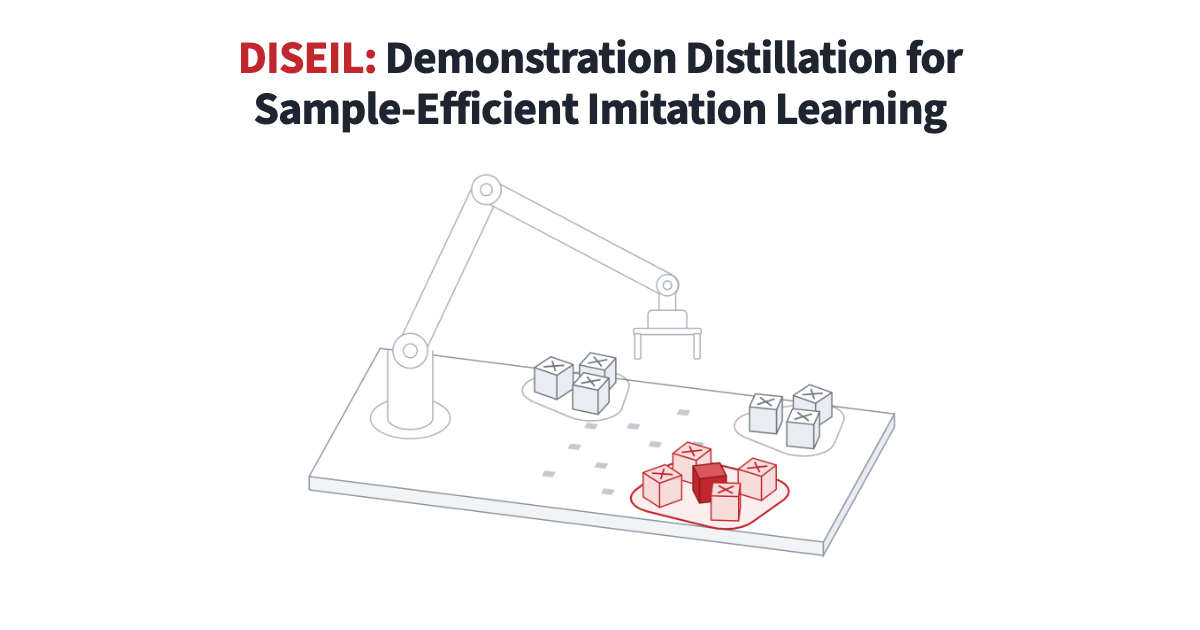
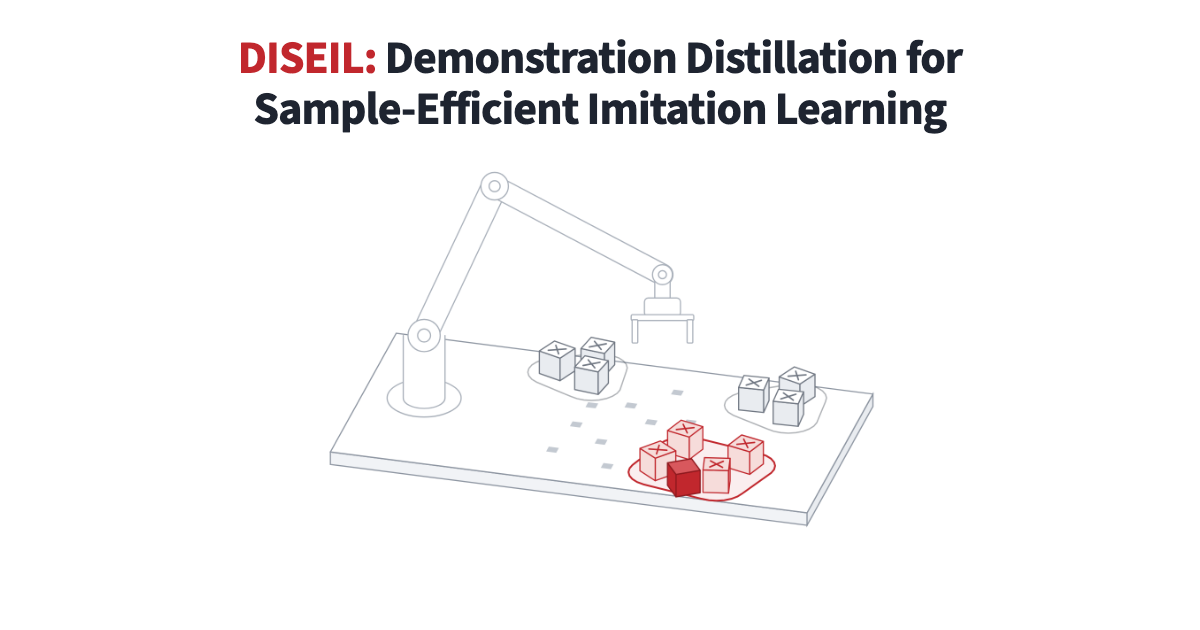
Add interactive results chart and update header, thumbnail and animation

Changed region(s): [[0.2467, 0.2714, 0.7708, 0.8746], [0.37, 0.6032, 0.4008, 0.6333]]

diff --git a/js/chart.js b/js/chart.js
@@ -1,0 +1,170 @@
+/* Final policy success (Table 1 of the paper): one mark per method, hover for values, zoom, highlight a method. */
+(function () {
+  'use strict';
+  const root = document.getElementById('chart'), d = JSON.parse(document.getElementById('table1').textContent);
+  const STYLE = { // colours pass an all-pairs colour-blind check; shape repeats the identity
+    DISEIL: ['#c1272d', 'diamond'], SafeDAgger: ['#876df9', 'circle'], DropoutDAgger: ['#1442be', 'square'], EnsembleDAgger: ['#3fc347', 'up'],
+    ThriftyDAgger: ['#7d2386', 'down'], 'Diff-DAgger': ['#6bbaf0', 'star'], Stagger: ['#e166ab', 'plus'],
+  };
+  const LEGEND = ['DISEIL', 'SafeDAgger', 'DropoutDAgger', 'EnsembleDAgger', 'ThriftyDAgger', 'Diff-DAgger', 'Stagger'];
+  const FULL = [66, 101], MIN = 1.5, NS = 'http://www.w3.org/2000/svg', fmt = (v) => v.toFixed(1);
+  const reduce = matchMedia('(prefers-reduced-motion: reduce)').matches;
+  const el = (n, a, p, t) => { const e = document.createElementNS(NS, n); for (const k in a) e.setAttribute(k, a[k]); if (p) p.appendChild(e); if (t !== undefined) e.textContent = t; return e; };
+  const shape = (kind, r) => {
+    const pts = (n, f) => Array.from({ length: n }, (_, i) => f(i)).map(([x, y]) => `${x.toFixed(2)} ${y.toFixed(2)}`).join('L');
+    const pol = (n, rr, a0) => `M${pts(n, (i) => { const a = a0 + i * 2 * Math.PI / n, q = typeof rr === 'function' ? rr(i) : rr; return [q * Math.cos(a), q * Math.sin(a)]; })}Z`;
+    if (kind === 'circle') return `M${-r} 0A${r} ${r} 0 1 1 ${r} 0A${r} ${r} 0 1 1 ${-r} 0Z`;
+    if (kind === 'square') { const s = r * 0.9; return `M${-s} ${-s}H${s}V${s}H${-s}Z`; }
+    if (kind === 'up') return pol(3, r * 1.25, -Math.PI / 2); if (kind === 'down') return pol(3, r * 1.25, Math.PI / 2);
+    if (kind === 'star') return pol(10, (i) => (i % 2 ? r * 0.56 : r * 1.32), -Math.PI / 2);
+    if (kind === 'plus') { const a = r * 1.12, b = r * 0.42; return `M${-b} ${-a}H${b}V${-b}H${a}V${b}H${b}V${a}H${-b}V${b}H${-a}V${-b}H${-b}Z`; }
+    return pol(4, r * 1.5, -Math.PI / 2);
+  };
+  const dark = (h) => '#' + [1, 3, 5].map((i) => Math.round(parseInt(h.slice(i, i + 2), 16) * 0.72).toString(16).padStart(2, '0')).join('');
+  const data = d.rows.map((r) => ({ task: r.task, obs: r.obs, pts: d.methods.map((m, j) => r.vals[j] && { m, v: r.vals[j][0], s: r.vals[j][1] }).filter(Boolean) }));
+
+  let dom = FULL.slice(), goal = FULL.slice(), pinned = null, hover = null, hotM = null, geo = null, anim = 0;
+
+  /* legend and buttons */
+  const legend = root.querySelector('.legend'), host = root.querySelector('.plot'), tip = root.querySelector('.tip'), live = root.querySelector('[aria-live]');
+  LEGEND.forEach((m) => {
+    const b = document.createElement('button'); b.type = 'button'; b.setAttribute('aria-pressed', 'false'); b.dataset.m = m;
+    b.innerHTML = `<svg width="20" height="20" viewBox="-10 -10 20 20" aria-hidden="true"><path d="${shape(STYLE[m][1], m === 'DISEIL' ? 6 : 6.2)}" fill="${STYLE[m][0]}" stroke="${dark(STYLE[m][0])}" stroke-width="1"/></svg>${m}`;
+    b.addEventListener('click', () => { pinned = pinned === m ? null : m; paint(); });
+    b.addEventListener('pointerenter', (e) => { if (e.pointerType === 'mouse') { hotM = m; paint(); } });
+    b.addEventListener('pointerleave', () => { hotM = null; paint(); });
+    legend.appendChild(b);
+  });
+  const zoomTo = (a, b) => {
+    let span = Math.max(MIN, Math.min(FULL[1] - FULL[0], b - a)), c = (a + b) / 2; a = Math.max(FULL[0], Math.min(FULL[1] - span, c - span / 2)); b = a + span; goal = [a, b];
+    const from = dom.slice(), t0 = performance.now(); cancelAnimationFrame(anim); tip.hidden = true; hover = null;
+    if (reduce) { dom = [a, b]; paint(); return; }
+    const tick = (now) => { const k = Math.min(1, (now - t0) / 260), e = k * k * (3 - 2 * k); dom = [from[0] + (a - from[0]) * e, from[1] + (b - from[1]) * e]; paint(); if (k < 1) anim = requestAnimationFrame(tick); };
+    anim = requestAnimationFrame(tick);
+  };
+  const setDom = (a, b) => { const span = Math.max(MIN, Math.min(FULL[1] - FULL[0], b - a)); a = Math.max(FULL[0], Math.min(FULL[1] - span, a)); cancelAnimationFrame(anim); dom = [a, a + span]; goal = dom.slice(); tip.hidden = true; hover = null; paint(); };
+  const by = (f, at) => { const c = at === undefined ? (dom[0] + dom[1]) / 2 : at; return [c - (c - dom[0]) * f, c + (dom[1] - c) * f]; };
+  const step = (f) => { const c = (goal[0] + goal[1]) / 2, h = (goal[1] - goal[0]) / 2 * f; return [c - h, c + h]; };
+  root.querySelector('[data-z="in"]').addEventListener('click', () => zoomTo(...step(0.5)));
+  root.querySelector('[data-z="out"]').addEventListener('click', () => zoomTo(...step(2)));
+  root.querySelector('[data-z="reset"]').addEventListener('click', () => { pinned = null; zoomTo(...FULL); });
+
+  /* drawing */
+  function layout(W) {
+    const n = W < 640, left = n ? 58 : 168, right = n ? 62 : 132, pitch = n ? 78 : W < 800 ? 76 : 56, gap = n ? 34 : 12, top = n ? 44 : 34;
+    const y = data.map((_, i) => top + (n ? Math.floor(i / 2) + 1 : Math.floor(i / 2)) * gap - (n ? 10 : 0) + i * pitch + pitch / 2);
+    return { W, n, left, right, pitch, gap, top, y, r: n ? 4.5 : 5.4, H: y[9] + pitch / 2 + 62, x0: left, x1: W - right };
+  }
+  function place(g, X) { // keep marks that would overlap apart, vertically, around their row
+    const gapPx = g.r * 2 + 1.2, out = [];
+    data.forEach((row, i) => {
+      const items = row.pts.map((p) => ({ ...p, i, x: X(p.v), y: 0 })).sort((a, b) => (b.m === 'DISEIL') - (a.m === 'DISEIL') || b.v - a.v), done = [];
+      items.forEach((p) => {
+        const need = (q) => (p.m === 'DISEIL' || q.m === 'DISEIL' ? gapPx + 2 : gapPx);
+        const ok = (y) => done.every((q) => Math.hypot(q.x - p.x, q.y - y) >= need(q) - 0.01);
+        for (let k = 0; k < 64; k++) { const y = (k % 2 ? 1 : -1) * Math.ceil(k / 2) * (gapPx / 4); if (ok(y)) { p.y = y; break; } }
+        done.push(p);
+      });
+      const lo = Math.min(...done.map((p) => p.y)), hi = Math.max(...done.map((p) => p.y)), lim = g.pitch / 2 - g.r;
+      if (hi > lim || lo < -lim) { const mid = (lo + hi) / 2; done.forEach((p) => { p.y -= mid; }); }
+      out.push(...done.map((p) => ({ ...p, cy: g.y[i] + p.y })));
+    });
+    return out;
+  }
+  function ticks(a, b) { const span = b - a, st = [0.1, 0.2, 0.5, 1, 2, 5, 10].find((s) => span / s <= 7) || 10, o = []; for (let v = Math.ceil(a / st - 1e-6) * st; v <= Math.min(b, 100) + 1e-6; v += st) o.push(+v.toFixed(2)); return { o, dec: st < 1 ? 1 : 0 }; }
+  function paint() {
+    const W = Math.max(240, host.clientWidth), g = layout(W), X = (v) => g.x0 + ((v - dom[0]) / (dom[1] - dom[0])) * (g.x1 - g.x0);
+    const focusM = hotM || (hover && hover.m) || pinned, col = hotM || pinned || 'DISEIL', zoomed = dom[1] - dom[0] < FULL[1] - FULL[0] - 0.01;
+    const had = host.contains(document.activeElement);
+    host.innerHTML = '';
+    const svg = el('svg', { viewBox: `0 0 ${W} ${g.H}`, width: W, height: g.H, role: 'img', tabindex: 0, 'aria-label': 'Held-out success after 20 demonstrations for DISEIL and six baselines on ten settings. Arrow keys step through the values.' }, host);
+    svg.classList.toggle('zoomed', zoomed);
+    const defs = el('defs', {}, svg), cp = el('clipPath', { id: 'plotclip' }, defs); el('rect', { x: g.x0 - 9, y: 0, width: g.x1 - g.x0 + 18, height: g.H }, cp);
+    const base = g.y[9] + g.pitch / 2 + 6, f1 = g.n ? 14 : 16, f2 = g.n ? 15 : 18;
+    const tk = ticks(...dom);
+    tk.o.forEach((v) => { el('line', { x1: X(v), x2: X(v), y1: g.top - 6, y2: base, stroke: '#e6e9ed' }, svg); el('line', { x1: X(v), x2: X(v), y1: base, y2: base + 6, stroke: '#5e6773' }, svg); el('text', { x: X(v), y: base + 24, 'text-anchor': 'middle', 'font-size': f1, class: 'num' }, svg, v.toFixed(tk.dec)); });
+    el('line', { x1: g.x0 - 8, x2: g.x1 + 8, y1: base, y2: base, stroke: '#5e6773', 'stroke-width': 1.3 }, svg);
+    el('text', g.n ? { x: W, y: base + 48, 'text-anchor': 'end', 'font-size': 14 } : { x: (g.x0 + g.x1) / 2, y: base + 50, 'text-anchor': 'middle', 'font-size': 16 }, svg, 'Held-out success after 20 demonstrations (%)');
+    el('text', { x: g.n ? W : W - 48, y: g.n ? 18 : 18, 'text-anchor': 'end', 'font-size': g.n ? 13 : 15, class: 'colhead' }, svg, col);
+    const marks = place(g, X), inn = el('g', { 'clip-path': 'url(#plotclip)' }, svg);
+    data.forEach((r, i) => {
+      if (i % 2 === 0) el('text', g.n ? { x: 0, y: g.y[i] - g.pitch / 2 - 6, 'font-size': f1 + 1, class: 'task' } : { x: 0, y: (g.y[i] + g.y[i + 1]) / 2 + 6, 'font-size': f2, class: 'task' }, svg, r.task);
+      el('text', { x: g.x0 - (g.n ? 16 : 22), y: g.y[i] + 5, 'text-anchor': 'end', 'font-size': f1 }, svg, r.obs);
+      const D = r.pts.find((p) => p.m === 'DISEIL'), lo = Math.min(...r.pts.map((p) => p.v));
+      const yd = marks.find((p) => p.i === i && p.m === 'DISEIL').cy;
+      el('line', { x1: X(lo), x2: X(D.v), y1: yd, y2: yd, stroke: '#eceff2', 'stroke-width': 6, 'stroke-linecap': 'round' }, inn);
+      const c = r.pts.find((p) => p.m === col), t = el('text', { x: W - (g.n ? 0 : 0), y: g.y[i] + 6, 'text-anchor': 'end', class: 'num' }, svg);
+      if (c) { el('tspan', { class: 'val' + (col === 'DISEIL' ? ' red' : ''), 'font-size': g.n ? 14.5 : 18 }, t, fmt(c.v)); if (!g.n) el('tspan', { class: col === 'DISEIL' ? 'red' : '', 'font-size': 14, dx: 5 }, t, `± ${fmt(c.s)}`); } else t.textContent = '–';
+    });
+    const bar = (p, w) => { if (p.s > 0.04) el('path', { d: `M${X(p.v - p.s)} ${p.cy}H${X(p.v + p.s)}M${X(p.v - p.s)} ${p.cy - 4}v8M${X(p.v + p.s)} ${p.cy - 4}v8`, stroke: STYLE[p.m][0], 'stroke-width': w, fill: 'none' }, inn); };
+    marks.forEach((p) => { if (p.m === focusM || (p.m === 'DISEIL' && !focusM)) bar(p, 1.8); });
+    const draw = (p) => {
+      const on = !focusM || p.m === focusM, hot = hover && hover.m === p.m && hover.i === p.i, k = p.m === 'DISEIL' ? g.r * 1.06 : g.r;
+      el('path', { d: shape(STYLE[p.m][1], hot ? k * 1.35 : k), transform: `translate(${p.x.toFixed(2)} ${p.cy.toFixed(2)})`, fill: STYLE[p.m][0], stroke: hot ? '#1e2430' : dark(STYLE[p.m][0]), 'stroke-width': hot ? 1.8 : 0.9, opacity: on ? 1 : 0.22 }, inn);
+    };
+    marks.filter((p) => p.m !== 'DISEIL').forEach(draw); marks.filter((p) => p.m === 'DISEIL').forEach(draw); if (hover) marks.filter((p) => p.m === hover.m && p.i === hover.i).forEach(draw);
+    if (brush) el('rect', { x: Math.min(brush[0], brush[1]), y: g.top - 6, width: Math.abs(brush[1] - brush[0]), height: base - g.top + 6, fill: '#1e2430', opacity: 0.08 }, svg);
+    root.querySelectorAll('.legend button').forEach((b) => { b.setAttribute('aria-pressed', String(pinned === b.dataset.m)); b.classList.toggle('off', !!focusM && focusM !== b.dataset.m); });
+    root.querySelector('[data-z="out"]').disabled = !zoomed; root.querySelector('[data-z="reset"]').disabled = !zoomed && !pinned; root.querySelector('[data-z="in"]').disabled = dom[1] - dom[0] <= MIN + 0.01;
+    if (had) svg.focus({ preventScroll: true });
+    geo = { g, X, marks, inv: (px) => dom[0] + ((px - g.x0) / (g.x1 - g.x0)) * (dom[1] - dom[0]) };
+  }
+  function show(p) {
+    if (p && (p.v < dom[0] || p.v > dom[1])) { const s = dom[1] - dom[0]; setDom(p.v - s / 2, p.v + s / 2); }
+    hover = p ? { m: p.m, i: p.i } : null; paint();
+    if (!p) { tip.hidden = true; return; }
+    const q = geo.marks.find((z) => z.m === p.m && z.i === p.i), r = data[p.i];
+    tip.innerHTML = `<b><svg width="16" height="16" viewBox="-9 -9 18 18" aria-hidden="true"><path d="${shape(STYLE[p.m][1], 5.6)}" fill="${STYLE[p.m][0]}" stroke="${dark(STYLE[p.m][0])}"/></svg>${p.m}</b><span class="big">${fmt(p.v)}% <small>± ${fmt(p.s)}</small></span><span>${r.task}, ${r.obs}</span>`;
+    tip.hidden = false; live.textContent = `${p.m}, ${r.task} ${r.obs}: ${fmt(p.v)} percent, standard error ${fmt(p.s)}`;
+    const w = tip.offsetWidth, h = tip.offsetHeight, W = host.clientWidth, ox = host.offsetLeft, oy = host.offsetTop;
+    tip.style.left = Math.max(0, Math.min(W - w, q.x + 16 + w > W ? q.x - w - 14 : q.x + 16)) + ox + 'px'; tip.style.top = (q.cy - h - 12 < 0 ? q.cy + 16 : q.cy - h - 10) + oy + 'px';
+  }
+
+  /* pointer: hover for values, drag to zoom, pinch or two fingers on touch */
+  let brush = null, down = null, lastTouch = false; const touch = new Map();
+  const at = (e) => { const b = host.getBoundingClientRect(); return [e.clientX - b.left, e.clientY - b.top]; };
+  const nearest = (x, y, lim) => { let best = null, bd = lim; geo.marks.forEach((p) => { if (p.x < geo.g.x0 - 9 || p.x > geo.g.x1 + 9) return; const k = Math.hypot(p.x - x, p.cy - y); if (k < bd) { bd = k; best = p; } }); return best; };
+  host.addEventListener('pointerdown', (e) => {
+    const [x, y] = at(e); lastTouch = e.pointerType !== 'mouse';
+    if (e.pointerType === 'mouse') { if (e.button === 0 && x > geo.g.x0 - 12 && x < geo.g.x1 + 12) { down = [x, y]; host.setPointerCapture(e.pointerId); } return; }
+    touch.set(e.pointerId, [x, y]); down = [x, y, dom.slice()];
+    if (touch.size === 1) show(nearest(x, y, 26));
+  });
+  host.addEventListener('pointermove', (e) => {
+    const [x, y] = at(e);
+    if (e.pointerType !== 'mouse') {
+      if (!touch.has(e.pointerId)) return;
+      const prev = new Map(touch); touch.set(e.pointerId, [x, y]);
+      if (touch.size === 2) { const a = [...prev.values()], b = [...touch.values()], d0 = Math.abs(a[0][0] - a[1][0]) || 1, d1 = Math.abs(b[0][0] - b[1][0]) || 1; setDom(...by(Math.max(0.5, Math.min(2, d0 / d1)), geo.inv((b[0][0] + b[1][0]) / 2))); } else if (down && down[2] && Math.abs(x - down[0]) > 8) { const k = (down[0] - x) / (geo.g.x1 - geo.g.x0) * (down[2][1] - down[2][0]); if (dom[1] - dom[0] < FULL[1] - FULL[0] - 0.01) setDom(down[2][0] + k, down[2][1] + k); }
+      return;
+    }
+    if (down && Math.abs(x - down[0]) > 5) { hover = null; tip.hidden = true; const c = (v) => Math.max(geo.g.x0, Math.min(geo.g.x1, v)); brush = [c(down[0]), c(x)]; paint(); return; }
+    const p = nearest(x, y, 18); if ((p && p.m) !== (hover && hover.m) || (p && p.i) !== (hover && hover.i)) show(p);
+  });
+  const up = (e) => {
+    touch.delete(e.pointerId);
+    if (brush) { const a = geo.inv(Math.min(...brush)), b = geo.inv(Math.max(...brush)); brush = null; if (b - a > 0.2) zoomTo(a, b); else paint(); }
+    down = null;
+  };
+  host.addEventListener('pointerup', up); host.addEventListener('pointercancel', up);
+  host.addEventListener('pointerleave', (e) => { if (e.pointerType === 'mouse' && !down) show(null); });
+  document.addEventListener('pointerdown', (e) => { if (hover && !e.composedPath().includes(host)) show(null); });
+  host.addEventListener('dblclick', (e) => { if (!lastTouch) zoomTo(...FULL); });
+  host.addEventListener('wheel', (e) => {
+    const [x] = at(e), span = dom[1] - dom[0];
+    if (e.ctrlKey || e.metaKey) { e.preventDefault(); setDom(...by(Math.exp(e.deltaY * 0.01), geo.inv(x))); } else if (Math.abs(e.deltaX) > Math.abs(e.deltaY) && span < FULL[1] - FULL[0] - 0.01) { e.preventDefault(); const k = e.deltaX / (geo.g.x1 - geo.g.x0) * span; setDom(dom[0] + k, dom[1] + k); }
+  }, { passive: false });
+  host.addEventListener('keydown', (e) => {
+    if (e.key === 'Escape') { show(null); return; }
+    if (!['ArrowLeft', 'ArrowRight', 'ArrowUp', 'ArrowDown'].includes(e.key)) return;
+    e.preventDefault();
+    const rows = data.map((r, i) => r.pts.map((p) => ({ ...p, i })).sort((a, b) => a.v - b.v)); let i = hover ? hover.i : 0, j = hover ? rows[i].findIndex((p) => p.m === hover.m) : rows[0].length - 1;
+    if (hover) { if (e.key === 'ArrowLeft') j = Math.max(0, j - 1); if (e.key === 'ArrowRight') j = Math.min(rows[i].length - 1, j + 1); if (e.key === 'ArrowUp' || e.key === 'ArrowDown') { const m = hover.m; i = Math.max(0, Math.min(9, i + (e.key === 'ArrowUp' ? -1 : 1))); j = rows[i].findIndex((p) => p.m === m); if (j < 0) j = rows[i].length - 1; } }
+    show(rows[i][j]); host.querySelector('svg').focus({ preventScroll: true });
+  });
+
+  root.querySelector('table').innerHTML = '<thead><tr><th>Setting</th>' + LEGEND.map((m) => `<th>${m}</th>`).join('') + '</tr></thead><tbody>' + data.map((r) => `<tr><th>${r.task} ${r.obs}</th>` + LEGEND.map((m) => { const p = r.pts.find((z) => z.m === m); return `<td>${p ? fmt(p.v) + ' ± ' + fmt(p.s) : ''}</td>`; }).join('') + '</tr>').join('') + '</tbody>';
+  paint(); let w = host.clientWidth; new ResizeObserver(() => { if (Math.abs(host.clientWidth - w) > 2) { w = host.clientWidth; tip.hidden = true; hover = null; paint(); } }).observe(host);
+  if (document.fonts) document.fonts.ready.then(paint);
+  window.CHART = { zoomTo, show: (m, i) => show({ ...data[i].pts.find((p) => p.m === m), i }), get domain() { return dom; } };
+})();

diff --git a/css/style.css b/css/style.css
@@ -17,13 +17,14 @@ a { color: var(--ink); }
 header { padding-top: clamp(36px, 5.5vw, 72px); }
 .authors { margin-top: 22px; font-size: 1.25rem; color: var(--ink); } .authors span { margin-inline: 10px; white-space: nowrap; }
 .affil { color: var(--muted); margin-top: 2px; }
-.links { margin-top: 22px; display: flex; flex-wrap: wrap; justify-content: center; gap: 10px; }
+.accepted { margin-top: 10px; color: var(--body); } .accepted strong { color: var(--ink); font-weight: 600; }
+.links { margin-top: 20px; display: flex; flex-wrap: wrap; justify-content: center; gap: 10px; }
 .links a { background: var(--ink); color: #fff; text-decoration: none; padding: 7px 22px; border-radius: 99px; font-weight: 600; font-size: 1.05rem; }
 .links a:hover { background: var(--red); }
 :focus-visible { outline: 2.5px solid var(--red); outline-offset: 3px; }
 
 .teaser { margin-top: clamp(16px, 2.5vw, 30px); }
-#teaser { width: 100%; height: clamp(230px, min(50vw, 100vh - 420px), 540px); }
+#teaser { width: 100%; height: clamp(230px, min(50vw, 100vh - 455px), 540px); }
 .teaser figcaption { display: grid; justify-items: center; gap: 4px; margin-top: 4px; }
 #teaser-caption { font-size: clamp(1.15rem, 1rem + 0.8vw, 1.5rem); color: var(--ink); min-height: 1.55em; text-wrap: balance; }
 button { font: inherit; font-size: 0.92rem; color: var(--muted); background: none; border: 0; padding: 4px 8px; cursor: pointer; } button:hover { color: var(--red); }
@@ -36,8 +37,21 @@ section { margin-top: clamp(60px, 8vw, 104px); scroll-margin-top: 24px; }
 .task video { background: var(--wash); aspect-ratio: 832 / 466; }
 .task figcaption { color: var(--muted); font-size: 1rem; margin-top: 5px; }
 .note { color: var(--muted); font-size: 1rem; margin-top: 18px; text-wrap: balance; }
-.plot { margin-top: 20px; overflow-x: auto; }
-.claim { margin-top: clamp(40px, 5vw, 60px); font-size: 1.3rem; color: var(--ink); font-weight: 600; text-wrap: balance; }
+.chart { position: relative; margin-top: clamp(48px, 6vw, 76px); text-align: left; }
+.chart-head { display: flex; justify-content: space-between; align-items: baseline; gap: 10px 24px; flex-wrap: wrap; }
+.chart-head h3 { font-size: clamp(1.35rem, 1.2rem + 0.7vw, 1.7rem); font-weight: 700; }
+.zoom { display: flex; align-items: center; gap: 6px; color: var(--muted); font-size: 0.95rem; } .zoom span { margin-right: 8px; }
+.zoom button { border: 1px solid var(--line); min-width: 36px; height: 34px; padding: 0 10px; border-radius: 6px; color: var(--ink); font-size: 1rem; background: #fff; } .zoom button:hover:not(:disabled) { border-color: var(--red); color: var(--red); } .zoom button:disabled { color: #b3bac3; cursor: default; }
+.legend { display: flex; flex-wrap: wrap; gap: 2px 8px; margin: 12px 0 8px -8px; }
+.legend button { display: inline-flex; align-items: center; gap: 5px; color: var(--body); font-size: 1.02rem; padding: 3px 8px; border-radius: 6px; } .legend button:hover { color: var(--ink); background: var(--wash); } .legend button[aria-pressed="true"] { background: var(--wash); color: var(--ink); font-weight: 600; } .legend button.off { opacity: 0.45; } .legend button.off:hover { opacity: 1; }
+.plot { touch-action: pan-y; user-select: none; -webkit-user-select: none; cursor: crosshair; min-height: 716px; }
+.plot svg, .plot svg * { pointer-events: none; }
+@media (max-width: 839px) { .plot { min-height: 904px; } }
+@media (max-width: 679px) { .plot { min-height: 1046px; } }
+.plot svg { display: block; max-width: 100%; height: auto; overflow: visible; outline-offset: 6px; }
+.chart text { font-family: var(--font); fill: var(--muted); } .chart .task { fill: var(--ink); font-weight: 600; } .chart .num { font-variant-numeric: tabular-nums; } .chart .val { fill: var(--ink); font-weight: 700; } .chart .colhead { font-weight: 600; } .chart tspan.red { fill: var(--red); }
+.tip { position: absolute; z-index: 5; pointer-events: none; background: #fff; border: 1px solid #c9cfd7; border-radius: 6px; padding: 8px 13px; box-shadow: 0 6px 22px rgba(30, 36, 48, 0.14); font-size: 0.95rem; line-height: 1.35; white-space: nowrap; color: var(--muted); } .tip b, .tip span { display: flex; align-items: center; gap: 6px; } .tip b { color: var(--ink); } .tip .big { font-size: 1.3rem; font-weight: 700; color: var(--ink); } .tip small { font-size: 0.95rem; font-weight: 400; color: var(--muted); } .tip[hidden] { display: none; }
+.sr { position: absolute; width: 1px; height: 1px; overflow: hidden; clip-path: inset(50%); white-space: nowrap; }
 .film { margin-top: 26px; aspect-ratio: 16 / 9; background: #171717; }
 .code { position: relative; max-width: 800px; margin: 24px auto 0; text-align: left; background: var(--wash); }
 .code button { position: absolute; right: 8px; top: 6px; }
@@ -48,7 +62,7 @@ main { padding-bottom: 72px; }
   #teaser-caption { min-height: 3.1em; }
   .tasks { grid-template-columns: 1fr; gap: 30px; }
   .task { grid-template-columns: 1fr 1fr; gap: 10px; } .task h3 { grid-column: 1 / -1; }
-  .plot img { width: 760px; max-width: none; }
+  .zoom span { display: none; }
   .code button { position: static; display: block; margin-left: auto; } pre { padding-top: 0; }
 }
 @media (prefers-reduced-motion: reduce) { html { scroll-behavior: auto; } }

diff --git a/index.html b/index.html
@@ -24,6 +24,7 @@
   <h1><span class="red">DISEIL:</span> Demonstration Distillation for Sample-Efficient Imitation Learning</h1>
   <p class="authors"><span>Suyog Khanal</span> <span>Arun Kumar A V</span> <span>Santu Rana</span></p>
   <p class="affil">Deakin Applied Artificial Intelligence Initiative, Deakin University</p>
+  <p class="accepted">This work has been accepted to the <strong>NEmo Workshop at NeurIPS 2026</strong>.</p>
   <p class="links"><a href="https://arxiv.org/pdf/2609.08123">Paper</a><a href="https://arxiv.org/abs/2609.08123">arXiv</a><a href="#real">Video</a><a href="#bibtex">BibTeX</a></p>
 </header>
 
@@ -49,8 +50,14 @@
         <figure><video muted playsinline preload="none" poster="assets/sim/wipe_after.jpg" data-end="assets/sim/wipe_after_end.jpg" src="assets/sim/wipe_after.mp4" width="832" height="466" aria-label="Wipe after one added demonstration: the table is clean"></video><figcaption>After</figcaption></figure></div>
     </div>
     <p class="note">Same start, before and after one added demonstration. Selected examples; it does not fix every failure.</p>
-    <p class="claim">Highest mean success after 20 demonstrations in all ten settings, with one tie</p>
-    <figure class="plot"><img src="assets/paper/fig3.webp" width="2196" height="615" loading="lazy" alt="Success rate against demonstrations added on Push-T, Door, Wipe and Lift for DISEIL and five baselines."></figure>
+    <div id="chart" class="chart">
+      <div class="chart-head"><h3>Final policy success</h3><div class="zoom"><span>Drag to zoom</span><button type="button" data-z="in" aria-label="Zoom in">+</button><button type="button" data-z="out" aria-label="Zoom out">−</button><button type="button" data-z="reset">Reset</button></div></div>
+      <div class="legend" role="group" aria-label="Methods: select one to highlight it"></div>
+      <div class="plot"></div>
+      <div class="tip" hidden></div>
+      <div class="sr" aria-live="polite"></div>
+      <div class="sr"><table></table></div>
+    </div>
   </section>
 
   <section id="real">
@@ -71,10 +78,11 @@
   primaryClass={cs.RO},
   url={https://arxiv.org/abs/2609.08123},
 }</pre></div>
-    <p class="note">This work has been accepted to the NEmo Workshop at NeurIPS 2026.</p>
   </section>
 </main>
+<script type="application/json" id="table1">{"methods":["SafeDAgger","DropoutDAgger","EnsembleDAgger","ThriftyDAgger","Stagger","Diff-DAgger","DISEIL"],"rows":[{"task":"GridWorld","obs":"state","D0":20,"init":48.9,"vals":[[85.3,0.9],[84.9,0.8],[86.2,0.7],[86.8,0.7],[85.7,0.5],null,[92.4,0.4]]},{"task":"GridWorld","obs":"image","D0":20,"init":47.0,"vals":[[88.8,0.9],[88.4,0.7],[88.8,0.9],[88.7,0.6],[89.1,0.8],null,[91.3,0.6]]},{"task":"Push-T","obs":"state","D0":20,"init":46.2,"vals":[[82.0,3.0],[84.8,2.7],[85.9,2.6],[83.2,3.2],null,[94.1,2.0],[96.1,1.6]]},{"task":"Push-T","obs":"image","D0":20,"init":43.3,"vals":[[78.1,3.5],[82.1,3.1],[83.2,3.0],[79.3,3.6],null,[89.0,2.1],[92.6,2.2]]},{"task":"Lift","obs":"state","D0":8,"init":67.2,"vals":[[99.2,0.7],[99.2,0.4],[99.2,0.4],[100.0,0.0],null,[99.2,0.4],[100.0,0.0]]},{"task":"Lift","obs":"image","D0":8,"init":66.4,"vals":[[99.6,0.4],[97.2,1.6],[98.8,0.7],[99.6,0.4],null,[99.6,0.4],[100.0,0.0]]},{"task":"Wipe","obs":"state","D0":12,"init":47.7,"vals":[[88.0,1.1],[88.6,1.8],[86.8,1.9],[89.0,1.1],null,[90.4,2.7],[93.1,1.3]]},{"task":"Wipe","obs":"image","D0":12,"init":45.2,"vals":[[69.6,2.4],[83.2,3.0],[84.4,3.2],[69.2,4.0],null,[88.6,1.4],[92.3,1.4]]},{"task":"Door","obs":"state","D0":4,"init":56.8,"vals":[[91.8,2.1],[92.5,1.2],[88.8,3.1],[89.6,1.7],null,[93.2,1.9],[96.6,1.9]]},{"task":"Door","obs":"image","D0":4,"init":43.1,"vals":[[82.4,1.4],[81.8,1.5],[83.0,4.9],[82.8,1.2],null,[84.2,1.6],[88.6,1.5]]}]}</script>
 <script src="js/teaser.js"></script>
+<script src="js/chart.js"></script>
 <script src="js/site.js"></script>
 </body>
 </html>

diff --git a/js/teaser.js b/js/teaser.js
@@ -10,7 +10,7 @@
   /* scene, in table units */
   const W = 1040, D = 540, BASE = { x: 130, y: 280 }, CUBE = 54, HOME = { x: 650, y: 280, z: 205 };
   const GROUPS = [[[690, 92], [826, 62], [862, 166], [722, 196]], [[810, 428], [896, 388], [890, 482]], [[372, 462], [458, 420], [450, 502]]];
-  const XI = { x: 776, y: 128, yaw: 0.5 };
+  const XI = { x: 762, y: 34, yaw: 0.6 }; // to one side of the group, not its midpoint
   const GOOD = [[540, 190], [470, 250], [480, 340], [620, 300], [640, 440], [580, 90], [450, 130], [700, 320], [560, 360]];
   const yaw = (i) => [0.2, 0.9, -0.3, 0.55, 1.2, -0.6, 0.05, 0.75, -0.15, 1.0][i % 10];
   const fails = GROUPS.flatMap((g, k) => g.map(([x, y], i) => ({ x, y, g: k, i, ok: false })));

diff --git a/README.md b/README.md
@@ -5,6 +5,7 @@ Source of https://ddiseil.github.io/ (static HTML, no build step).
 - `index.html` page
 - `css/style.css` styles
 - `js/teaser.js` the looping method animation
+- `js/chart.js` the interactive results chart (Table 1 values are in `#table1` in `index.html`)
 - `js/site.js` before/after clips in step, BibTeX copy button
 
 Preview locally with `python3 -m http.server` in this folder.
